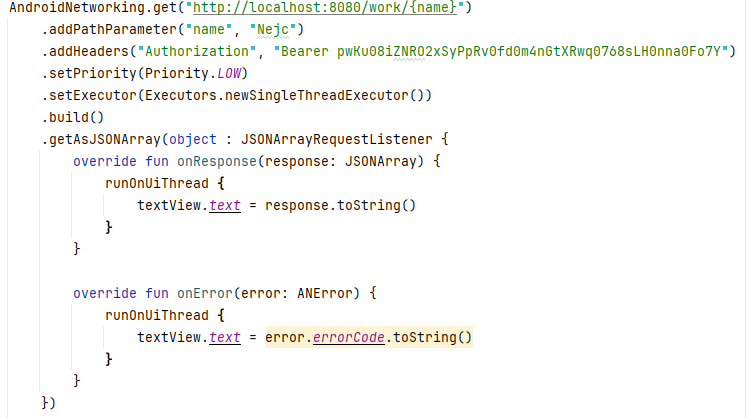
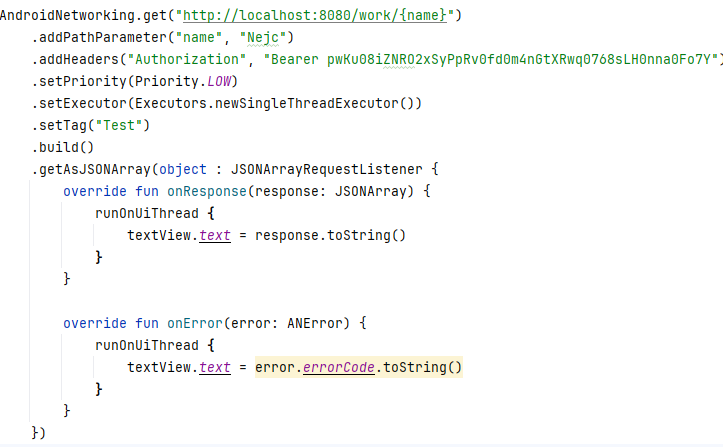
Added caching and canceling

diff --git a/README.md b/README.md
@@ -51,12 +51,26 @@ Rezultat
 
 ### Zahtevnejši GET zahtevek
 
-Ustvarimo GET zahtevek kateremu podamo spremenljivko za pot v URL-ju, dodan header za bearer token, prioriteta zahteve, ki pa nam določi kdaj se naj izvede request, pa še executor, ki pa določi da se naj izvede zahteva na drugi niti. Za pridobivanje rezultata zahteve pa uporabimo JSONArray parser.
+Ustvarimo GET zahtevek kateremu podamo spremenljivko za pot v URL-ju, dodan header za bearer token, prioriteta zahteve, ki pa nam določi kdaj se naj izvede request, značka za možnost preklica zahteva, pa še executor, ki pa določi da se naj izvede zahteva na drugi niti. Za pridobivanje rezultata zahteve pa uporabimo JSONArray parser.
 
-![get](/assets/more_coplicated_get.png)
+![get_harder](/assets/more_coplicated_get.png)
+
+Preklic zahteve
+
+![cancel](/assets/cancel_zahtevek.png)
 
 Rezultat
 
-![get_result](/assets/more_coplicated_get_result.png)
+![get_harder_result](/assets/more_coplicated_get_result.png)
+
+### Predpomnenje zahteve
+
+Zahteve lahko predpomnimo, te se pa nam shranijo na notranji prostor v telefonu. Strežnik mora podpirati glave cache-control, max-age,max-stale za delovanje predpomnenja.
+
+![cache_zahtevek](/assets/cache_zahtevek.png)
+
+Shranjena datoteka
+
+![cache_save](/assets/cache_save.png)
 
 
